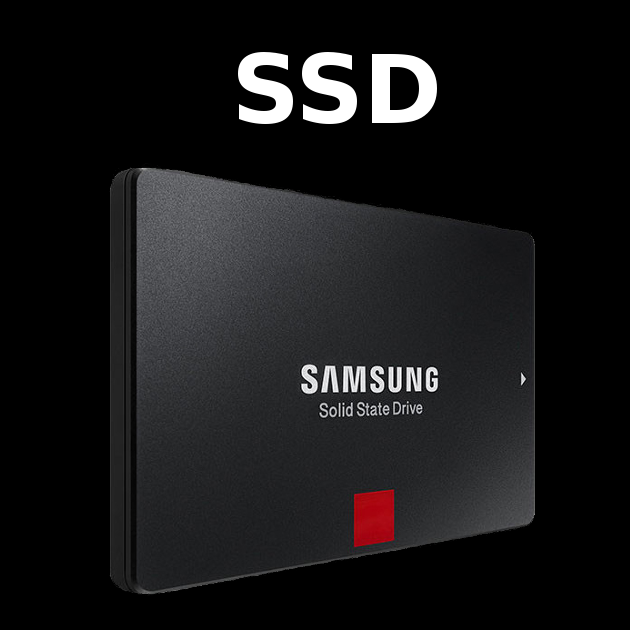
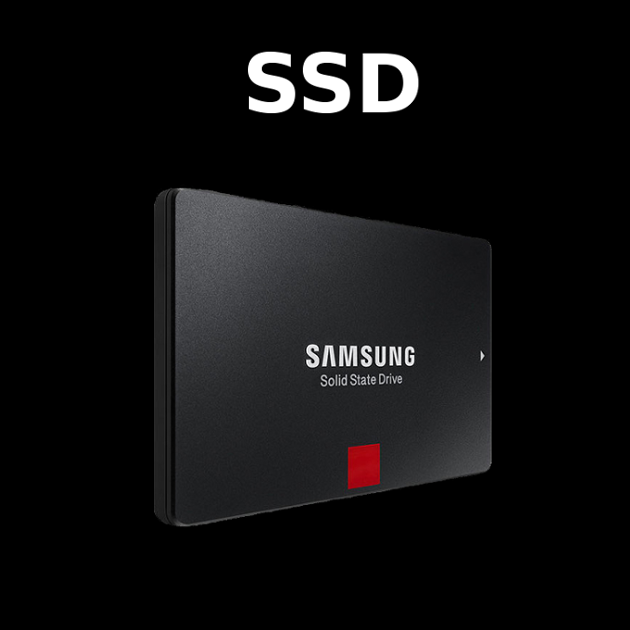
Completato slideshow

Changed region(s): [[0.1508, 0.2413, 0.8746, 0.9651], [0.3619, 0.0603, 0.6937, 0.2111], [0.4825, 0.5429, 0.6937, 0.6635]]

diff --git a/public/js/ngFader.js b/public/js/ngFader.js
@@ -10,13 +10,16 @@
 
 		//List your images here. 
 		scope.images = [{
-			src: '../public/img/slideshow1.jpg',
-			alt: 'Master Cart Record'
-		}, {
-			src: '../public/img/slideshow6.jpg',
+			src: '../public/img/slideshow1.png',
 			alt: 'Master Cart Record'
 		}, {
 			src: '../public/img/slideshow3.jpg',
+			alt: 'Master Cart Record'
+		}, {
+			src: '../public/img/slideshow4.png',
+			alt: 'Master Cart Record'
+		}, {
+			src: '../public/img/slideshow2.jpg',
 			alt: 'Master Cart Record'
 		}];
 
